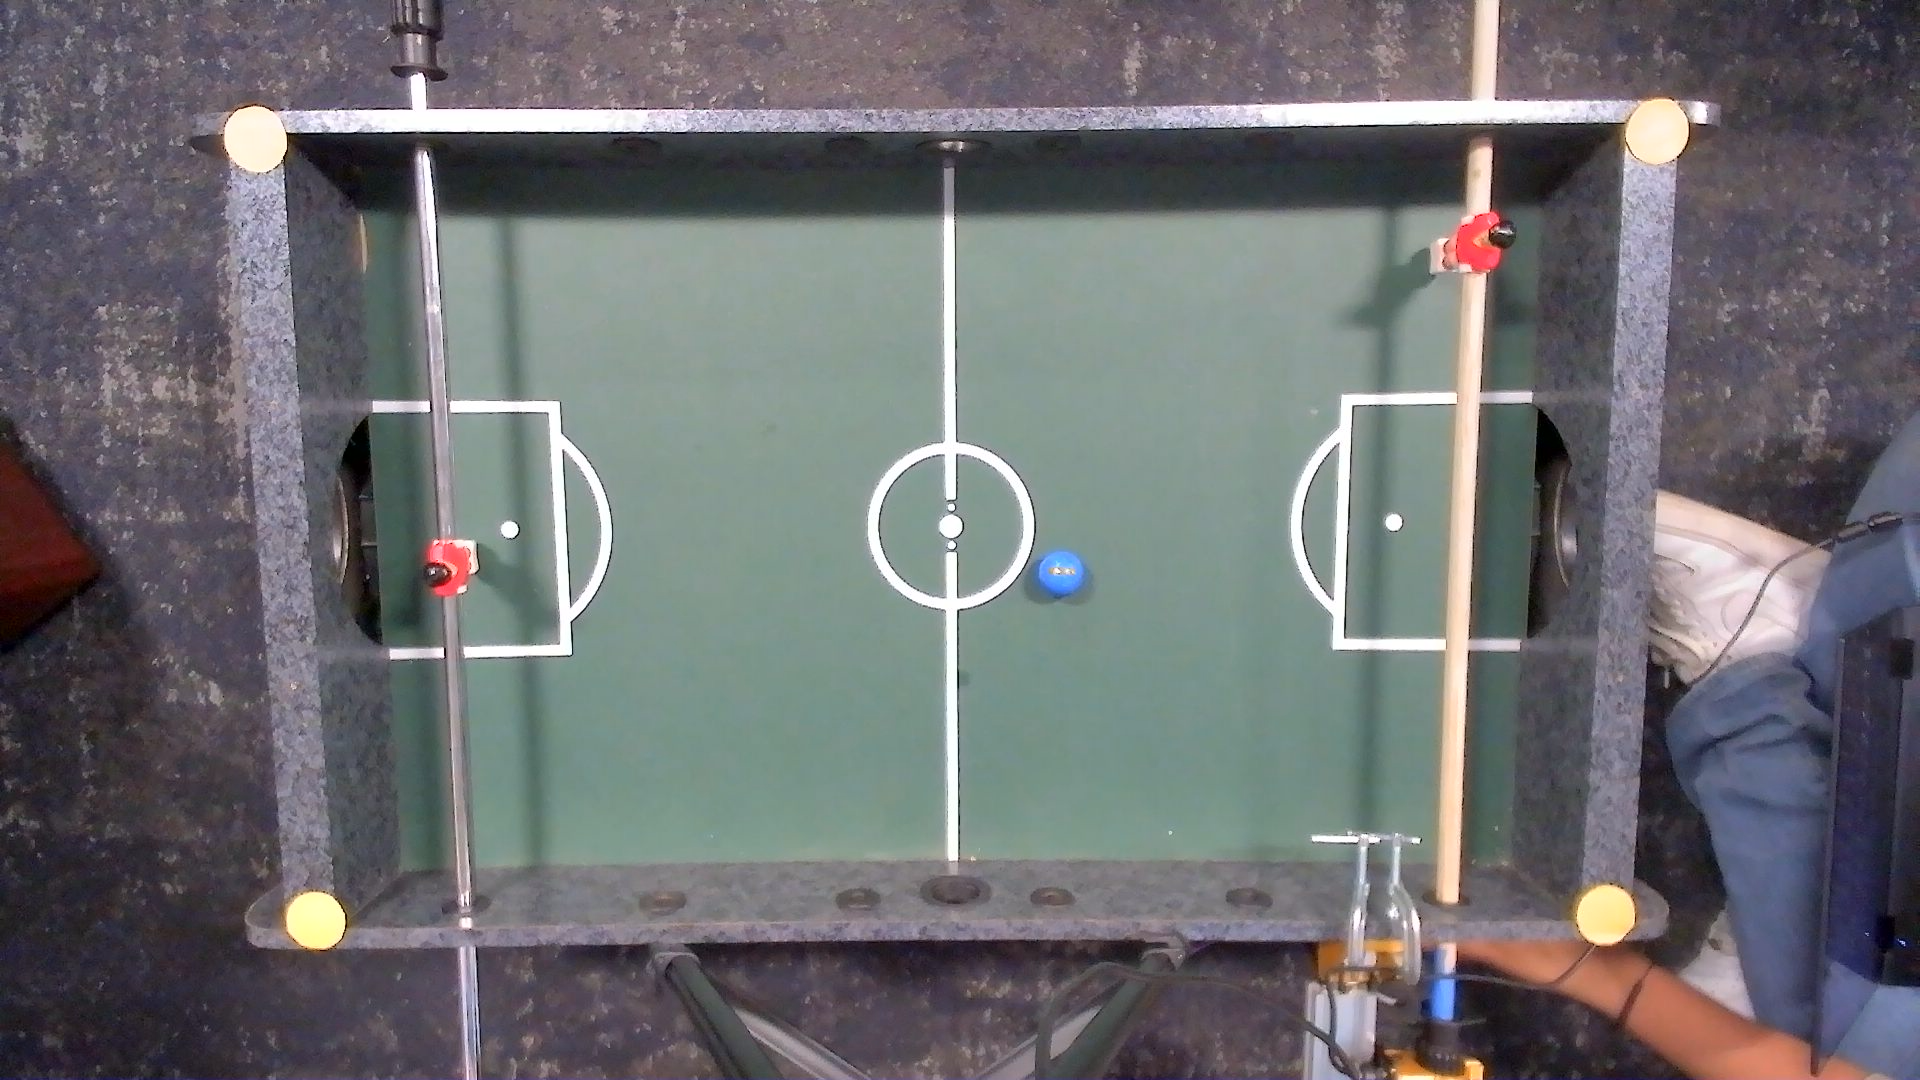
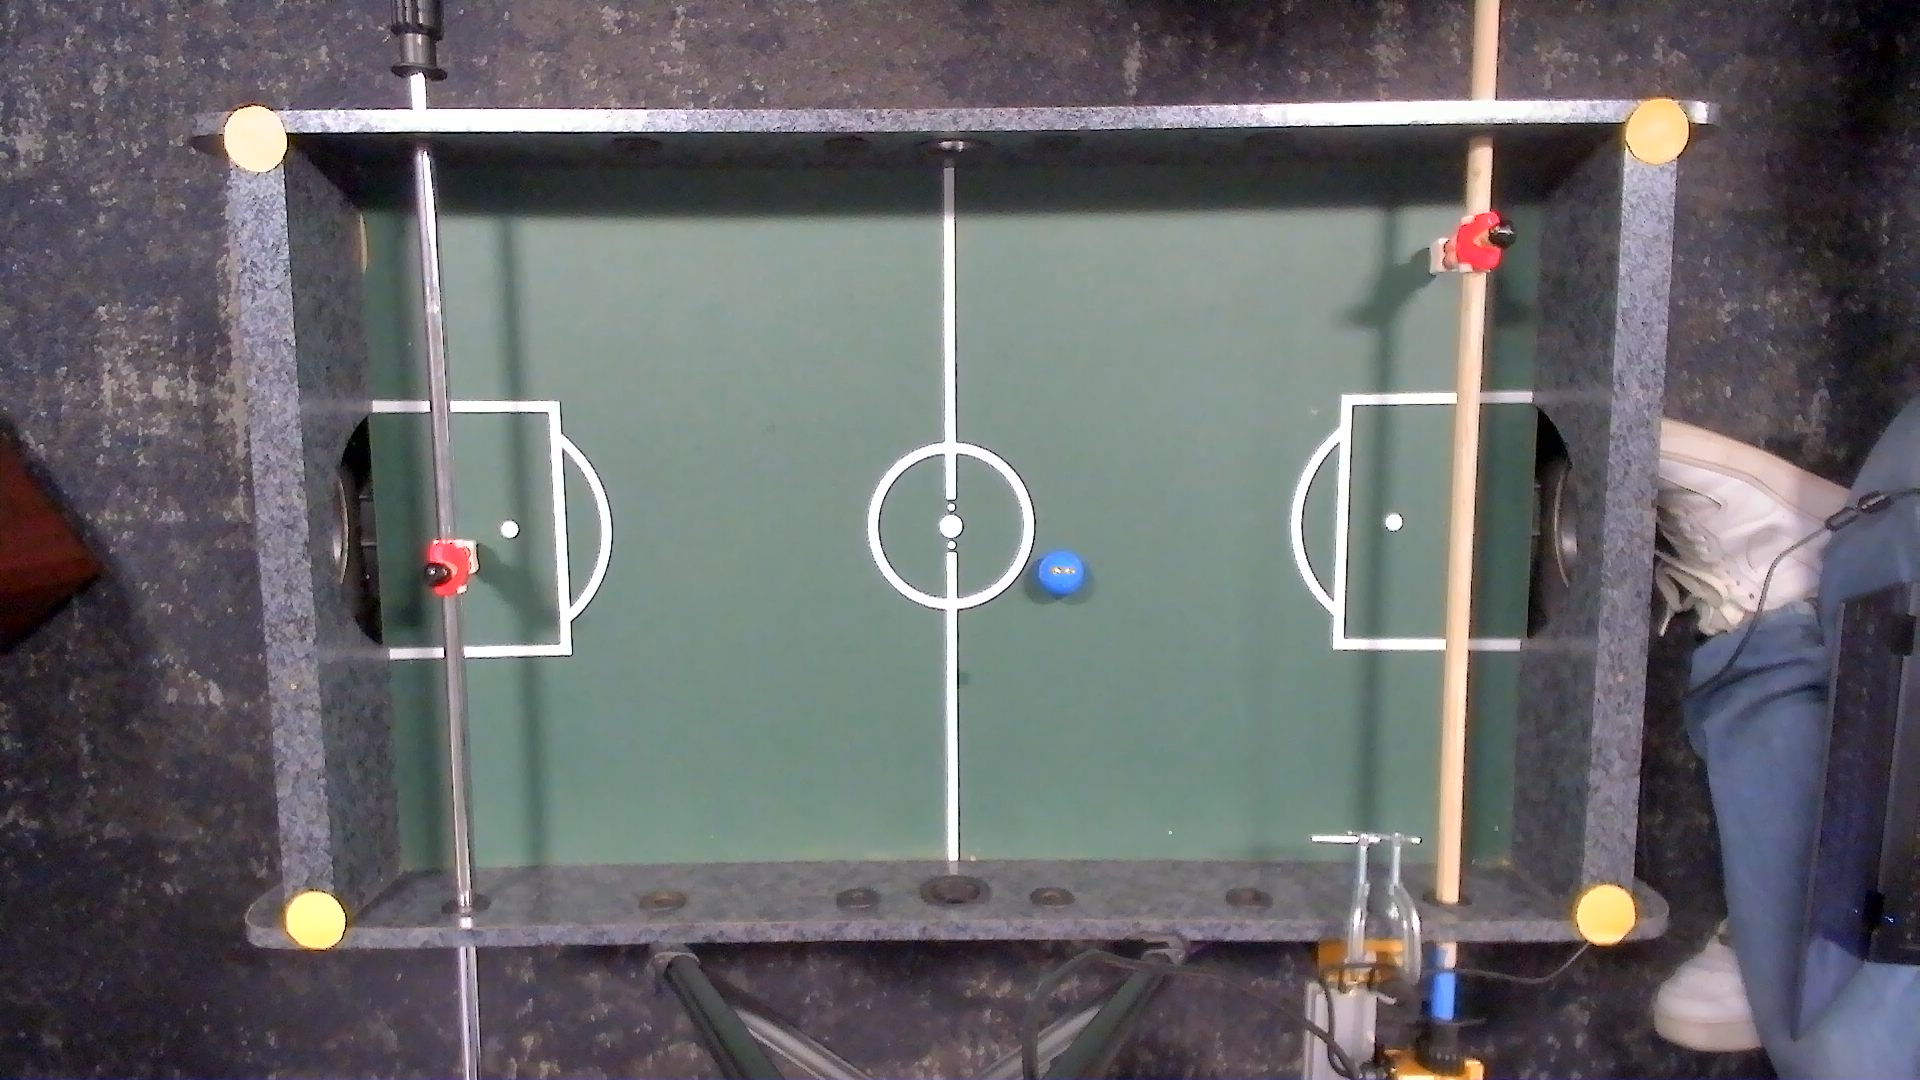
tested path code

diff --git a/run.py b/run.py
@@ -13,13 +13,13 @@ TABLE_HEIGHT =  815
 
 # Find all 4 corners
 # TO DO - Finding all 4 corners (Brennen)
-setup = Setup()
-corners = setup.find_corners()
+# setup = Setup()
+# corners = setup.find_corners()
 
 
 # Perform calibration
 # cal = Calibration(corners[1], corners[0], corners[2], corners[3], TABLE_WIDTH, TABLE_HEIGHT)  # tr, tl, br, bl
-cal = Calibration([1594,160], [290,205], [1580,920], [332,937], TABLE_WIDTH, TABLE_HEIGHT)
+cal = Calibration([1656,132], [255,143], [1602,920], [313,920], TABLE_WIDTH, TABLE_HEIGHT)
 cal.find_transformation_matrix()
 
 # While loop: Get pixel value, track path, send value through serial
@@ -35,11 +35,14 @@ while True:
     prj = cal.perform_transformation([x,y])
     print(prj[0], prj[1])
     path_end = path_prediction.find_path_end([prev_x, prev_y], prj)
-    # TO DO - smoothing (Enrique)
-    # TO DO = get speed to see if it's worth looking at (Brennen)
-    # path_prediction.check_speed([prev_x, prev_y], prj, time.time()-prev_time)
+    if path_end == None:
+        path_end = [prj[0], prj[1]]
+    # # TO DO - smoothing (Enrique)
+    # # TO DO = get speed to see if it's worth looking at (Brennen)
+    # # path_prediction.check_speed([prev_x, prev_y], prj, time.time()-prev_time)
     prev_x = prj[0]
     prev_y = prj[1]
-    # rpi_communication.send_msg(str(path_end))
-    # print(path_end)
-    prev_time = time.time()
+    # # rpi_communication.send_msg(str(path_end))
+    print(path_end)
+    print('\n\n')
+    # prev_time = time.time()

diff --git a/path_prediction.py b/path_prediction.py
@@ -12,9 +12,13 @@ class PathPrediction():
         x2 = p2[0]
         y2 = p2[1]
         m = (y2-y1)/(x2-x1)
+        loops = 0
         while True:
+            loops += 1
             path_end = self.find_y_intercept(x1, y1, m)
-            if path_end > self.table_height/2 or path_end < -self.table_height/2:
+            if loops > 5:
+                return None
+            elif path_end > self.table_height/2 or path_end < -self.table_height/2:
                 self.calculate_new_path(x1, y1, m)
             else:
                 return path_end

diff --git a/img_tracking.py b/img_tracking.py
@@ -100,7 +100,7 @@ class BallTracking():
                     left = max(0, col - BALL_RADIUS*4)
                     bfs_true, center = self.bfs(im, row, col)
                     if bfs_true:
-                        print("Center of ball found at pos (" + str(center[0]) + ", " + str(center[1]) + ")\n\n")
+                        print("Center of ball found at pos (" + str(center[0]) + ", " + str(center[1]) + ")")
                         return center[0], center[1]
         return -1, -1
 
